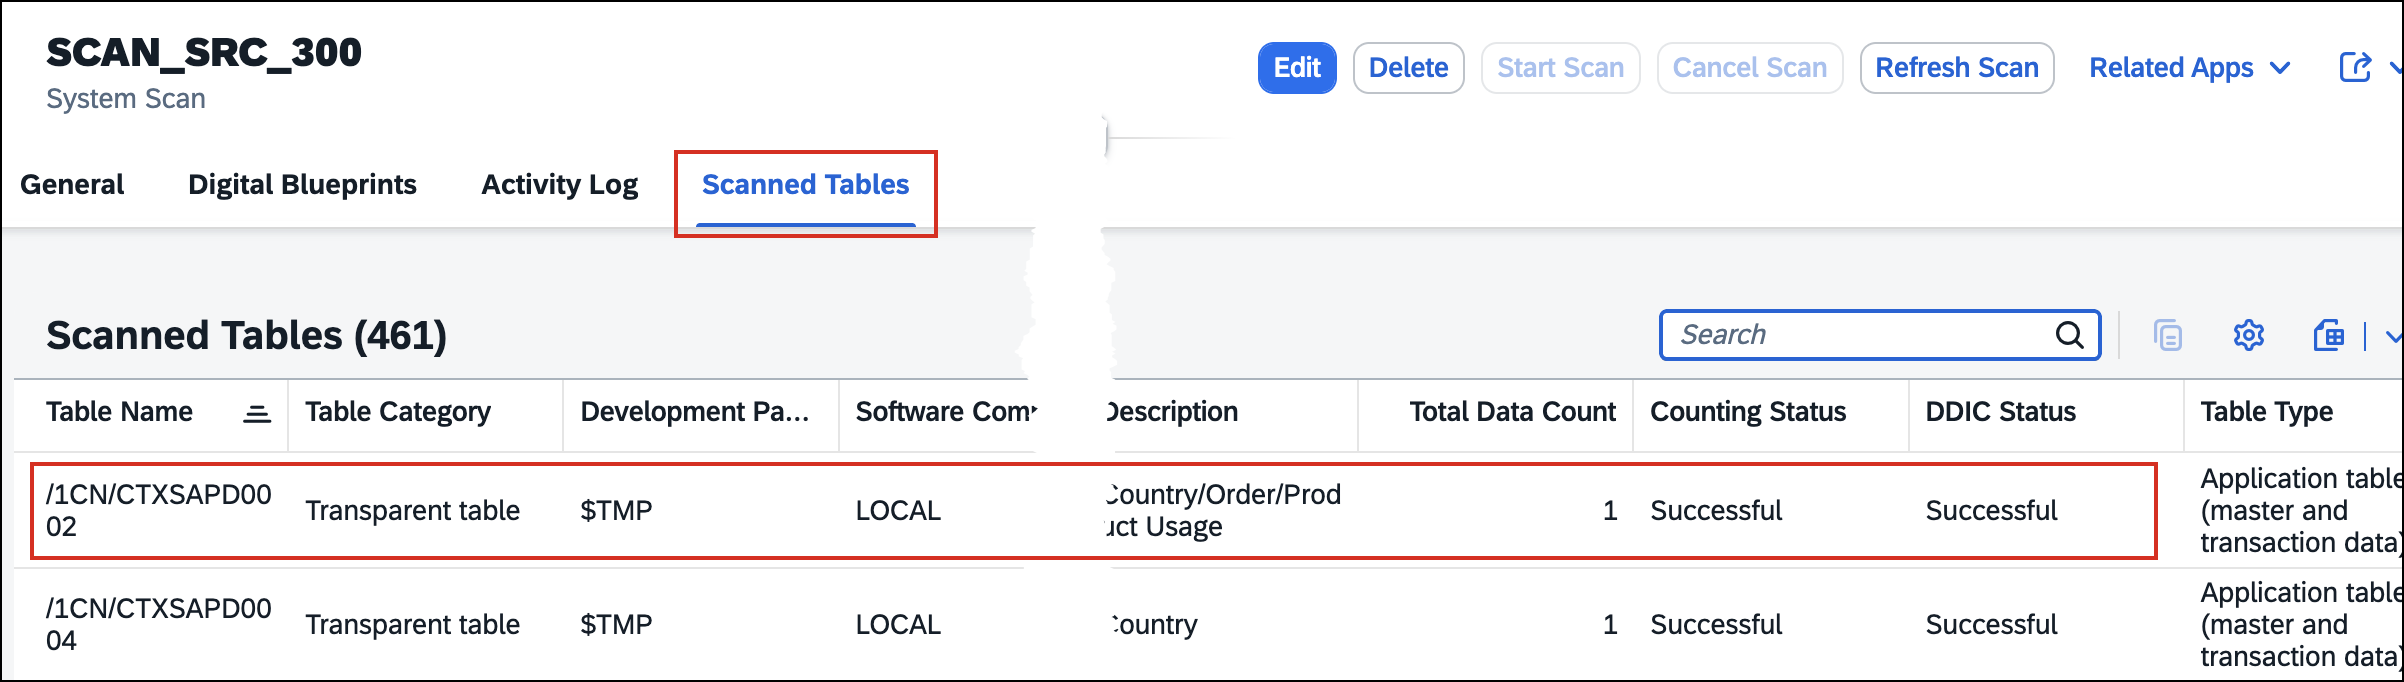
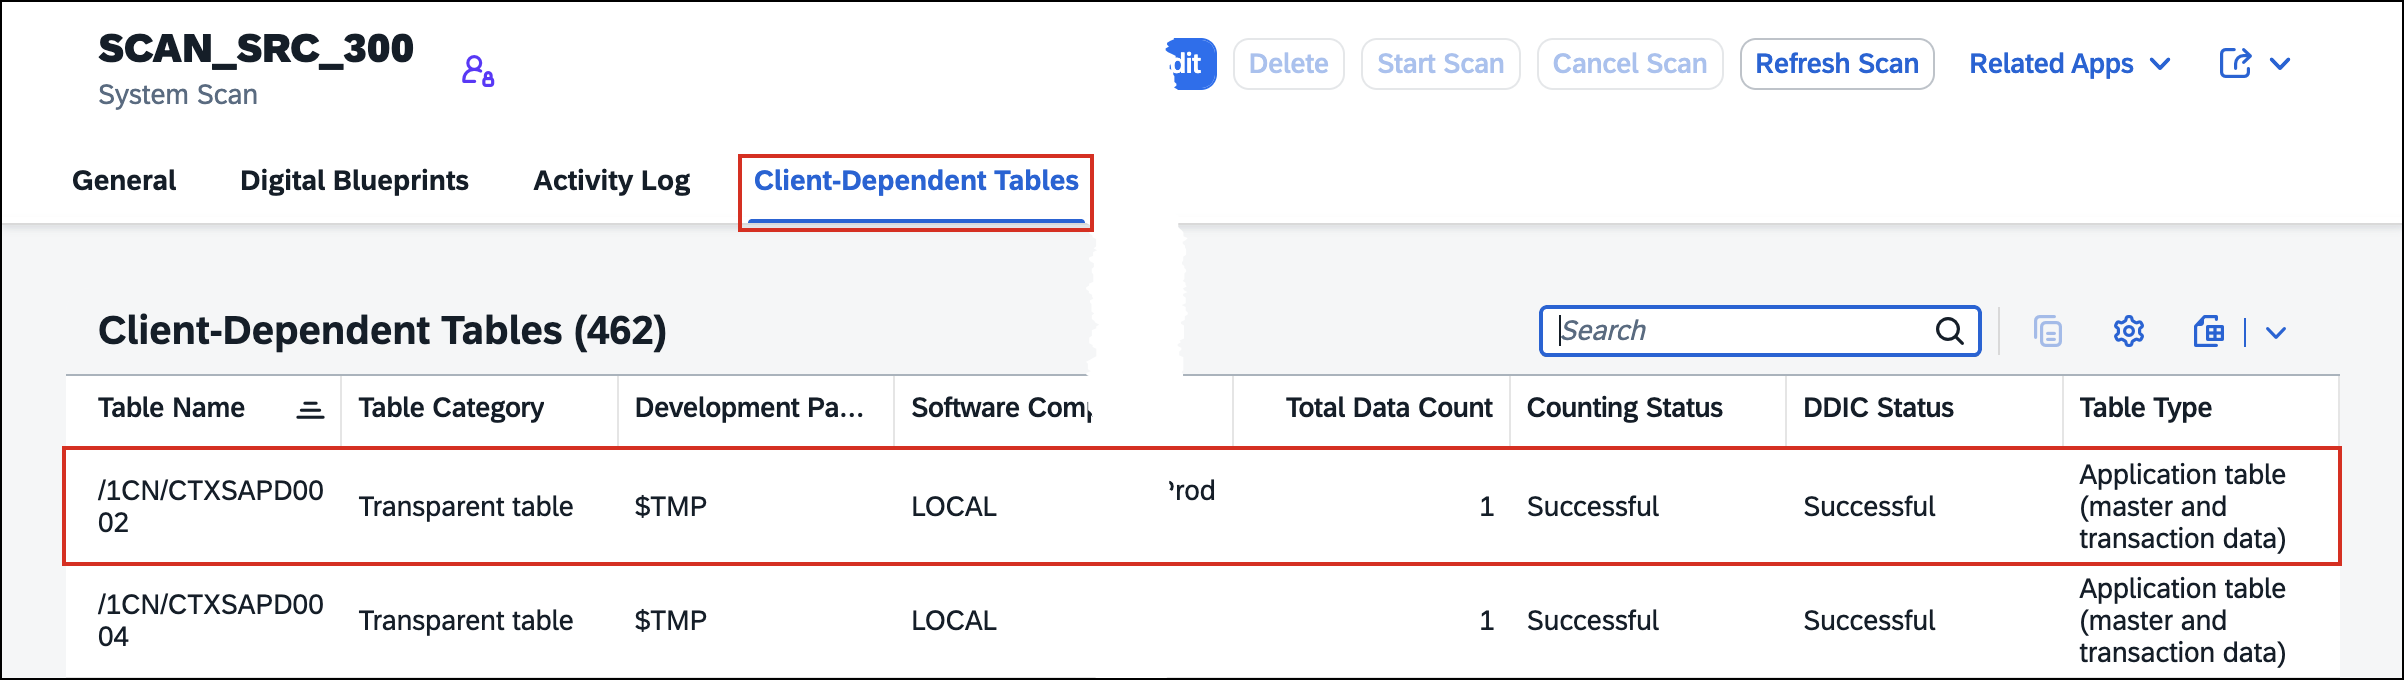
Fix Client-Dependent Tables (UI Update)

diff --git a/exercises/ex3/README.md b/exercises/ex3/README.md
@@ -28,7 +28,7 @@ Follow these steps to complete the exercise:<br>
 9.  The **System Scan** overview opens.<br><br>
     Here, you can review information such as the **Software Component Check** (including required versions and SAP Notes), the **Connectivity Status** of the source system, and the current **Scan Status**. If prerequisites are missing or the connection is inactive, the scan cannot be executed until these issues are resolved.<br><br>
     ![](/exercises/ex3/images/Screenshot-09.png)<br>
-10. Choose **Scanned Tables** to explore the scan results.<br><br>
+10. Choose **Client-Dependent Tables** to explore the scan results.<br><br>
     The **System Scan** identifies additional tables not covered in the SAP delivered Transformation Object content, including customer-specific tables (Z and Y), third-party tables (such as SAP Add-Ons), and dependent standard tables. It also detects **essential system tables** that are automatically added to the transformation scope to **ensure system consistency**.<br><br>
     For each table, you can review the **number of entries**, helping you make informed decisions during the upcoming scoping phase.<br><br>
     ![](/exercises/ex3/images/Screenshot-10.png)<br>
